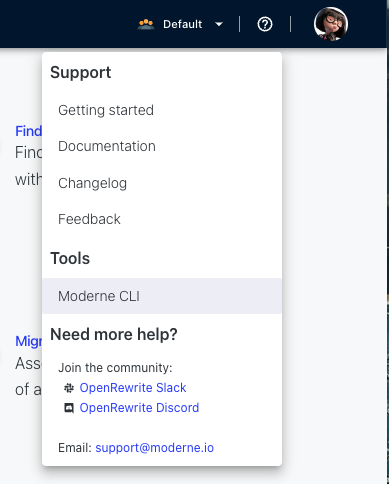
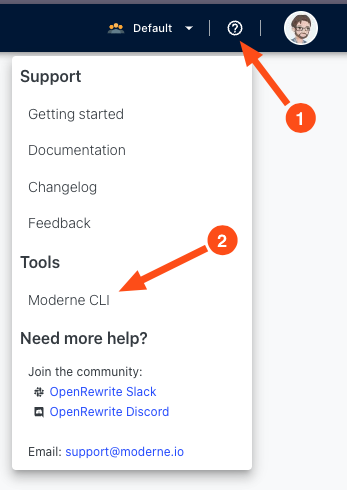
Improve CLI adventure
* Adds clearer instructions with more pictures
* Fixes a variety of spelling and grammar mistakes
* Splits the adventure up more cleanly
* Adds commands that were missing

Changed region(s): [[0.0, 0.0, 1.0, 1.0]]

diff --git a/moderne-cli-adventure/README.md b/moderne-cli-adventure/README.md
@@ -11,88 +11,134 @@ over.
 
 ## Prepare your environment
 
-1. Download the Moderne CLI by going to
-   [https://app.moderne.io](https://app.moderne.io), clicking on the `?`
-   in the top right corner, and selecting `Moderne CLI` from the menu:
+### Download and configure the Moderne CLI
 
-![context menu](assets/cli-download.png)
+1. Go to the [Moderne platform](https://app.moderne.io) and sign in.
 
-2. Create a Moderne Access Token by going to
-   [https://app.moderne.io/settings/access-token](https://app.moderne.io/settings/access-token).
-   Once there, enter a name for the token and press `generate`.
+2. Click on the `?` in the top right corner and then select `Moderne CLI` from
+   the `Tools` menu:
 
-3. Export your token as an environment variable
+   ![CLI download](assets/cli-download.png)
+
+3. You can then either press the `Download Latest` button or install it directly
+   through the command line by copying the `curl` command at the bottom of the
+   modal:
+
+   ![](assets/cli-download2.png)
+
+4. Regardless of how you downloaded the CLI, you'll need to save it somewhere
+   that your terminal can access. This could involve updating your `PATH` to
+   point to a specific location or this could involve putting it in a directory
+   that's already on your `PATH` such as a `/usr/bin` directory.
+
+5. Ensure you can run the CLI by typing `mod help`. If everything is set up
+   correctly, you should see a list of commands:
+
+   ![](assets/mod-cli.png)
+
+6. Before you can run any commands, you'll need to create a Moderne Access
+   Token. Go to
+   [https://app.moderne.io/settings/access-token](https://app.moderne.io/settings/access-token),
+   enter a name for the token, and press `generate`.
+
+7. Once created, you should see a command that you can run to install the token
+   on your system. Either run that command or export your token directly as an
+   environment variable:
 
 ```shell
 export MODERNE_ACCESS_TOKEN="mat-YOUR_TOKEN_HERE"
 ```
 
-4. Switch to Java 8 so you can properly build this repository. You might need to
-download Java 8 and update your `JAVA_HOME` environment variable. If you are
-on a Unix-based system, we recommend using [SDKMan](https://sdkman.io/):
+### Configure the Spring PetClinic repository
 
-```shell
-sdk install java 8.0.372-tem
-sdk use java 8.0.372-tem
-```
-  * If you want to use `sdk` and the `java 8.0.372-tem` distribution 
-    is not available for you, select any distribution that represents a Java 8 version.
-    
-  * If you aren't on a Unix-based system or you don't want to install SDKMan,
-    you'll need to install Java 8 and run something like:
+With the CLI downloaded and configured, you're now ready to set up the
+repository.
 
-```shell
-export JAVA_HOME=REPLACE_FOR_LOCATION_OF_JAVA_8
-```
-
-6. Clone the [Spring PetClinic
+1. Clone the [Spring PetClinic
    repository](https://github.com/spring-projects/spring-petclinic):
 
 ```shell
 git clone https://github.com/spring-projects/spring-petclinic
 ```
 
-7. Check out the last Spring Boot 2.0 commit:
+2. Check out the last Spring Boot 2.0 commit:
 
 ```shell
 cd spring-petclinic
 git checkout b527de52f5fd19f9fe550372c017d145a3b2a809
 ```
 
+3. If you tried building this repository right now, you would more than likely
+   run into errors. This is because this version of the Spring PetClinic repo
+   requires Java 8. To ensure that everything builds correctly, you may need to
+   download Java 8 and update your `JAVA_HOME` environment variable. If you are
+   on a Unix-based system, we recommend using [SDKMan](https://sdkman.io/):
 
-8. Make sure it runs on your machine:
+      ```shell
+      sdk install java 8.0.372-tem
+      sdk use java 8.0.372-tem
+      ```
+
+  * If you want to use `sdk` and the `java 8.0.372-tem` distribution 
+    is not available for you, select any distribution that represents a Java 8 version.
+
+  * If you aren't on a Unix-based system or you don't want to install SDKMan,
+    you'll need to install Java 8 and run something like:
+
+      ```shell
+      export JAVA_HOME=REPLACE_FOR_LOCATION_OF_JAVA_8
+      ```
+
+4. With Java 8 configured, make sure that the Spring PetClinic repository builds
+   on your machine:
 
 ```shell
 ./mvnw package -DskipTests
-``` 
+```
+
+5. If everything has been set up correctly, you should see a `BUILD SUCCESS`
+   message after the project is built and the tests passed.
 
 ## Migrate to Spring Boot 3 using the Moderne CLI
 
-1. Run the build command to generate the repository LST
+Now that the repository is configured, it's time to migrate it to Spring Boot 3
+using the Moderne CLI.
+
+1. Run the build command to generate the LST for the PetClinic repo:
 
 ```shell
 mod build --path . --mvnPluginVersion=1.2.1
 ```
 
-2. Now, switch to Java 17 to run recipes. This is a requirement of the CLI.
+2. Next, switch to Java 17 to run recipes. This is a requirement of the CLI:
+
+```shell
+sdk install java 17.0.7-tem
+sdk use java 17.0.7-tem
+```
+
+OR
 
 ```shell
 export JAVA_HOME=REPLACE_FOR_LOCATION_OF_JAVA_17
 ```
  
-3. following command from the `spring-petclinic` repository:
+3. Kick off the recipe by running the following command from the
+   `spring-petclinic` repository:
 
 ```shell
-mod run --path . --recipeName org.openrewrite.java.spring.boot3.UpgradeSpringBoot_3_0 --recipeGAV org.openrewrite.recipe:rewrite-spring:5.0.1 --skipBuild
+mod run --path . --recipeName org.openrewrite.java.spring.boot3.UpgradeSpringBoot_3_0 --recipeGAVs org.openrewrite.recipe:rewrite-spring:5.0.2 --skipBuild
 ```
 
-4. The previous command should have updated your source files. You can then see the changes made by running:
+4. The previous command should have updated your source files. Whenever you run
+   a recipe, you should always double-check that the changes made match your
+   expectations by running:
 
 ```shell
 git diff
 ```
 
-## Run a recipe in remote repositories
+## Run a recipe on a remote LST
 
 Publishing your [Lossless Semantic
 Tree](https://docs.moderne.io/concepts/lossless-semantic-trees) (LST) artifacts
@@ -101,18 +147,18 @@ repository every time (as LSTs contain all of the information needed to run a
 recipe).
 
 We have already many LST open-source repositories in the platform. With the
-Moderne CLI you can run an existing recipe or debug a recipe to see if it
+Moderne CLI, you can run an existing recipe or debug a recipe to see if it
 might work in repositories that have published their LSTs.
 
-With the following command you will run the CleanUp recipe for all the Netflix 
-repositories we have in the Moderne platform. 
+With the following command, you will run the CleanUp recipe for all the Netflix 
+repositories we have in the Moderne platform:
 
 ```shell
-mod run --repositories "github.com/Netflix/.+@main" --recipeName org.openrewrite.staticanalysis.CodeCleanup --recipeGAV org.openrewrite.recipe:rewrite-static-analysis:1.0.1
+mod run --repositories "github.com/Netflix/.+@main" --recipeName org.openrewrite.staticanalysis.CodeCleanup --recipeGAVs org.openrewrite.recipe:rewrite-static-analysis:1.0.2
 ```
 
 The [CleanUp recipe](https://app.moderne.io/recipes/org.openrewrite.staticanalysis.CodeCleanup?) 
-removes unnecessary parenthesis and simplify some expressions.
+removes unnecessary parenthesis and simplifies some expressions.
 
 We invite you to experiment to run [any of our recipes](https://app.moderne.io/marketplace) 
 in the OSS repositories we have from Netflix.  
